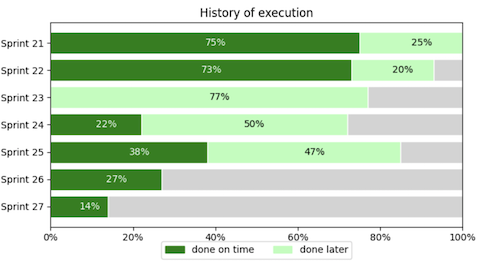
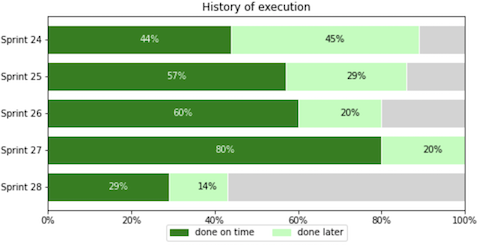
improved execution analysis

diff --git a/README.md b/README.md
@@ -46,6 +46,10 @@ The amount of work committed vs delivered. This data shows how predictable the t
      alt="Squad execution history"
      style="margin-right: 10px;" />
 
+"done on time" - there are work items that were actually done in the sprint.
+
+"done later" - these are work items that were in the sprint but finished in the next iteration(s). Therefore execution history for "done later" items will change over time. In this way we can check if there are any items we never deliver (removed from the scope) due to different reasons
+
 ## Algorithms
 
 1. __Dependency factor__ calculates the number of issues with external dependencies to the total number of issues not Done yet, but after refinement (estimated in the backlog or already planned for the sprint).
